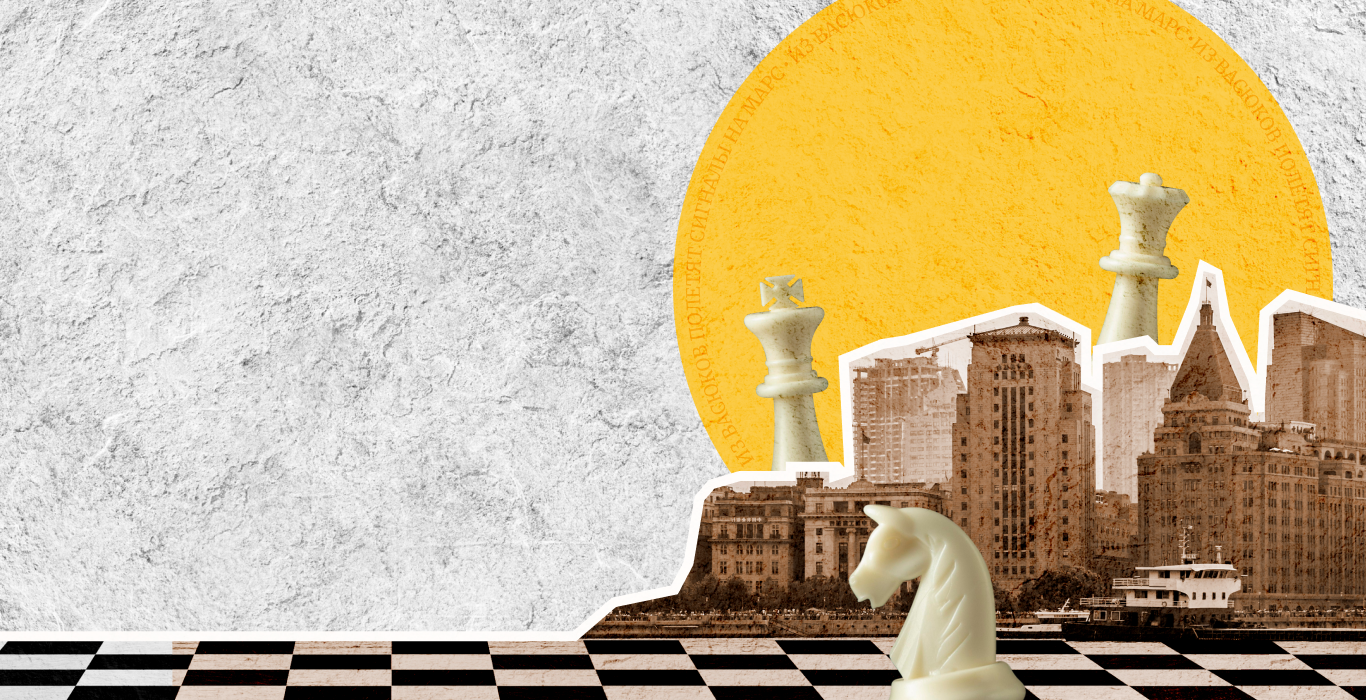
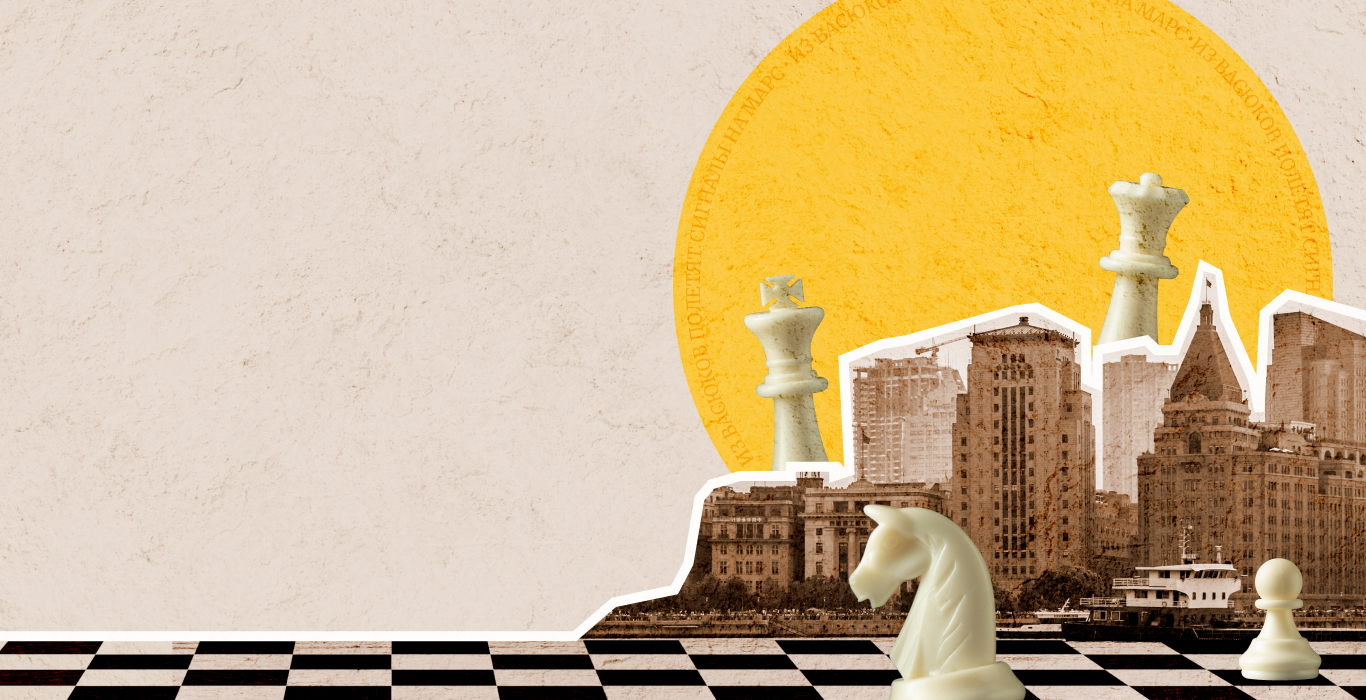
fix

Changed region(s): [[0.0, 0.0, 0.6149, 1.0], [0.8609, 0.0, 1.0, 0.45], [0.8917, 0.78, 0.9839, 0.99]]

diff --git a/styles/tournament.css b/styles/tournament.css
@@ -2,6 +2,7 @@
     display: grid;
     grid-template-columns: 1fr;
     gap: 24px;
+    padding: 0 20px;
 }
 
 .tournament__text {
@@ -27,9 +28,9 @@
 }
 
 .tournament__picture {
-    width: 100%;
+    /* width: 100%;
     height: auto;
-    display: block;
+    display: block; */
     object-fit: cover;
 }
 
@@ -47,26 +48,38 @@
 @media (min-width: 1024px) {
     .tournament {
         display: flex;
-        gap: 64px;
+        flex-direction: row;
+        gap: clamp(32px, 4.68%, 64px);
         align-items: center;
+        padding: 0;
     }
 
     .tournament__text {
+        flex: 1 1 55.9%;
         text-align: left;
-        font-size: 36px;
+        font-size: clamp(28px, 2.6vw, 36px);
         order: 1;
-        flex: 1 1 calc((764 / 1366) * 100);
+        min-width: 0;
     }
 
     .tournament__image {
-        max-width: 100%;
+        flex: 1 1 28.8%;
         order: 2;
-        flex: 1 1 calc((394 / 1366) * 100);
+        max-width: 100%;
     }
+
+    /* 
+    .tournament__picture {
+        width: 100%;
+        height: auto;
+        display: block;
+    } */
 }
 
 @media (min-width: 1440px) {
     .tournament__text {
         font-size: 42px;
+        padding: 0;
+
     }
 }